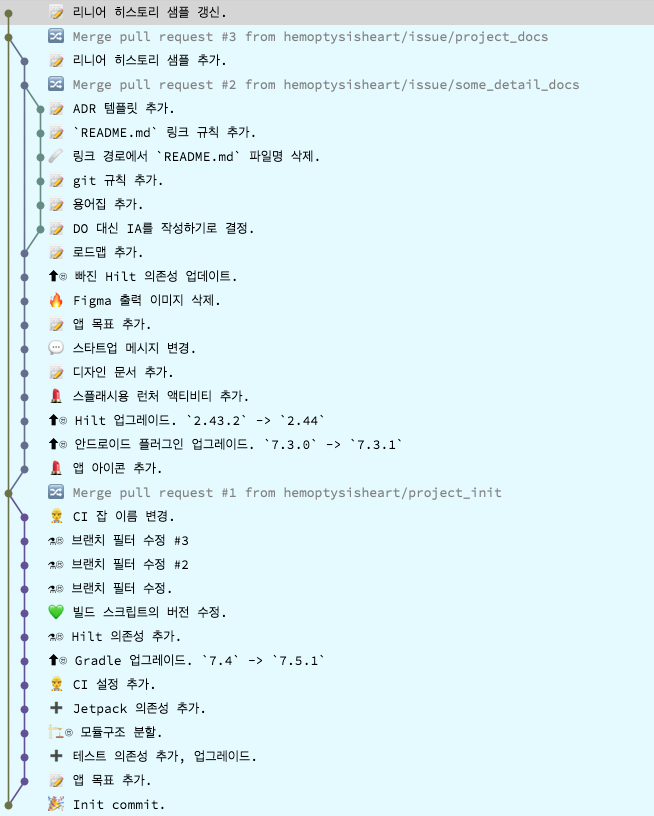
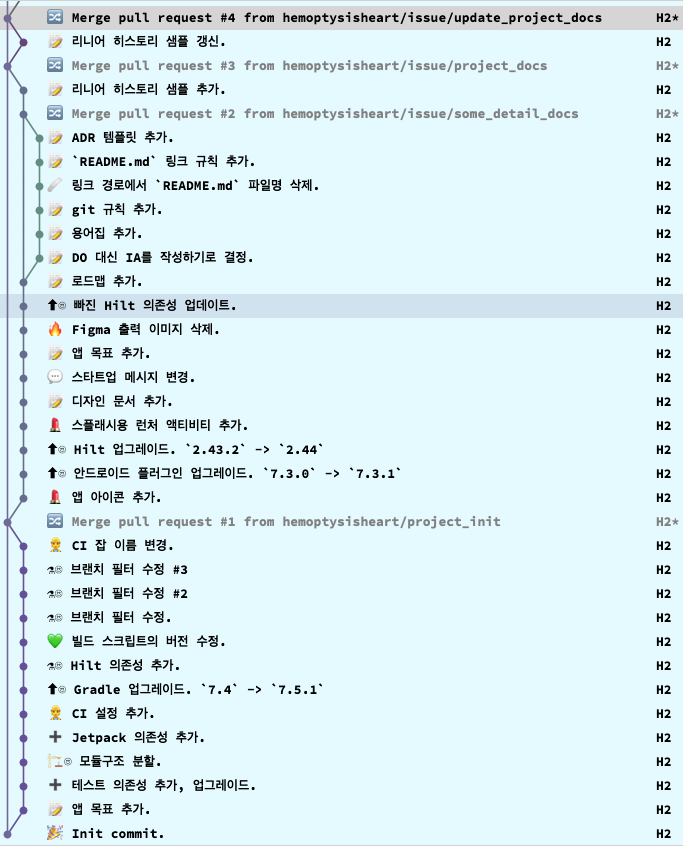
📝 히스토리 예제 갱신.

Changed region(s): [[0.0, 0.0, 1.0, 1.0], [0.3058, 0.7966, 0.4893, 0.8272]]

diff --git a/doc/version control.md b/doc/version control.md
@@ -12,45 +12,50 @@
 4. 커밋 네트워크가 분기와 머지 커밋 사이의 커밋은 한 쪽 경로에서만 생긴다.
 
 ```
-*   c2627fd - (HEAD -> issue/update_project_docs, origin/main, main) 🔀 Merge pull request #3 from hemoptysisheart/issue/project_docs (4분 전) <H2>
+|/
+*   20854ad - 🔀 Merge pull request #4 from hemoptysisheart/issue/update_project_docs (6일 전) <H2>
 |\
-| * bb416b4 - (issue/project_docs) 📝 리니어 히스토리 샘플 추가. (2주 전) <H2>
-| *   f89c30b - 🔀 Merge pull request #2 from hemoptysisheart/issue/some_detail_docs (12분 전) <H2>
+| * a2f0ed3 - 📝 리니어 히스토리 샘플 갱신. (6일 전) <H2>
+|/
+*   c2627fd - 🔀 Merge pull request #3 from hemoptysisheart/issue/project_docs (6일 전) <H2>
+|\
+| * bb416b4 - 📝 리니어 히스토리 샘플 추가. (3주 전) <H2>
+| *   f89c30b - 🔀 Merge pull request #2 from hemoptysisheart/issue/some_detail_docs (6일 전) <H2>
 | |\
-| | * 9face02 - 📝 ADR 템플릿 추가. (15분 전) <H2>
-| | * b84321a - 📝 `README.md` 링크 규칙 추가. (15분 전) <H2>
-| | * 8c52908 - 🩹 링크 경로에서 `README.md` 파일명 삭제. (15분 전) <H2>
-| | * 0a18aee - 📝 git 규칙 추가. (15분 전) <H2>
-| | * fb68c7c - 📝 용어집 추가. (15분 전) <H2>
-| | * 0dd8b87 - 📝 DO 대신 IA를 작성하기로 결정. (15분 전) <H2>
+| | * 9face02 - 📝 ADR 템플릿 추가. (6일 전) <H2>
+| | * b84321a - 📝 `README.md` 링크 규칙 추가. (6일 전) <H2>
+| | * 8c52908 - 🩹 링크 경로에서 `README.md` 파일명 삭제. (6일 전) <H2>
+| | * 0a18aee - 📝 git 규칙 추가. (6일 전) <H2>
+| | * fb68c7c - 📝 용어집 추가. (6일 전) <H2>
+| | * 0dd8b87 - 📝 DO 대신 IA를 작성하기로 결정. (6일 전) <H2>
 | |/
-| * b71dea5 - 📝 로드맵 추가. (15분 전) <H2>
-| * 412eaec - ⬆ 빠진 Hilt 의존성 업데이트. (15분 전) <H2>
-| * 8603360 - 🔥 Figma 출력 이미지 삭제. (15분 전) <H2>
-| * 3eb3b03 - 📝 앱 목표 추가. (15분 전) <H2>
-| * d60506b - 💬 스타트업 메시지 변경. (15분 전) <H2>
-| * ce65534 - 📝 디자인 문서 추가. (15분 전) <H2>
-| * 9d0a049 - 💄 스플래시용 런처 액티비티 추가. (15분 전) <H2>
-| * dfc34c6 - ⬆ Hilt 업그레이드. `2.43.2` -> `2.44` (15분 전) <H2>
-| * e987e66 - ⬆ 안드로이드 플러그인 업그레이드. `7.3.0` -> `7.3.1` (15분 전) <H2>
-| * 346475e - 💄 앱 아이콘 추가. (15분 전) <H2>
+| * b71dea5 - 📝 로드맵 추가. (6일 전) <H2>
+| * 412eaec - ⬆ 빠진 Hilt 의존성 업데이트. (6일 전) <H2>
+| * 8603360 - 🔥 Figma 출력 이미지 삭제. (6일 전) <H2>
+| * 3eb3b03 - 📝 앱 목표 추가. (6일 전) <H2>
+| * d60506b - 💬 스타트업 메시지 변경. (6일 전) <H2>
+| * ce65534 - 📝 디자인 문서 추가. (6일 전) <H2>
+| * 9d0a049 - 💄 스플래시용 런처 액티비티 추가. (6일 전) <H2>
+| * dfc34c6 - ⬆ Hilt 업그레이드. `2.43.2` -> `2.44` (6일 전) <H2>
+| * e987e66 - ⬆ 안드로이드 플러그인 업그레이드. `7.3.0` -> `7.3.1` (6일 전) <H2>
+| * 346475e - 💄 앱 아이콘 추가. (6일 전) <H2>
 |/
-*   37db4c0 - 🔀 Merge pull request #1 from hemoptysisheart/project_init (20분 전) <H2>
+*   37db4c0 - 🔀 Merge pull request #1 from hemoptysisheart/project_init (6일 전) <H2>
 |\
-| * 16c5bbf - 👷 CI 잡 이름 변경. (29분 전) <H2>
-| * a30e6e4 - ⚗ 브랜치 필터 수정 #3 (29분 전) <H2>
-| * c1d39bb - ⚗ 브랜치 필터 수정 #2 (29분 전) <H2>
-| * 2ede98a - ⚗ 브랜치 필터 수정. (29분 전) <H2>
-| * ab604da - 💚 빌드 스크립트의 버전 수정. (29분 전) <H2>
-| * 8fb9c1a - ⚗ Hilt 의존성 추가. (29분 전) <H2>
-| * cafa6bb - ⬆ Gradle 업그레이드. `7.4` -> `7.5.1` (29분 전) <H2>
-| * cbb7493 - 👷 CI 설정 추가. (29분 전) <H2>
-| * 5bf6a69 - ➕ Jetpack 의존성 추가. (29분 전) <H2>
-| * 190241a - 🏗 모듈구조 분할. (29분 전) <H2>
-| * fe5b7ed - ➕ 테스트 의존성 추가, 업그레이드. (29분 전) <H2>
-| * b585067 - 📝 앱 목표 추가. (29분 전) <H2>
+| * 16c5bbf - 👷 CI 잡 이름 변경. (6일 전) <H2>
+| * a30e6e4 - ⚗ 브랜치 필터 수정 #3 (6일 전) <H2>
+| * c1d39bb - ⚗ 브랜치 필터 수정 #2 (6일 전) <H2>
+| * 2ede98a - ⚗ 브랜치 필터 수정. (6일 전) <H2>
+| * ab604da - 💚 빌드 스크립트의 버전 수정. (6일 전) <H2>
+| * 8fb9c1a - ⚗ Hilt 의존성 추가. (6일 전) <H2>
+| * cafa6bb - ⬆ Gradle 업그레이드. `7.4` -> `7.5.1` (6일 전) <H2>
+| * cbb7493 - 👷 CI 설정 추가. (6일 전) <H2>
+| * 5bf6a69 - ➕ Jetpack 의존성 추가. (6일 전) <H2>
+| * 190241a - 🏗 모듈구조 분할. (6일 전) <H2>
+| * fe5b7ed - ➕ 테스트 의존성 추가, 업그레이드. (6일 전) <H2>
+| * b585067 - 📝 앱 목표 추가. (6일 전) <H2>
 |/
-* 8e4e39f - 🎉 Init commit. (36분 전) <H2>
+* 8e4e39f - 🎉 Init commit. (6일 전) <H2>
 ```
 
 ![Linear history](asset/linear%20history.png)
